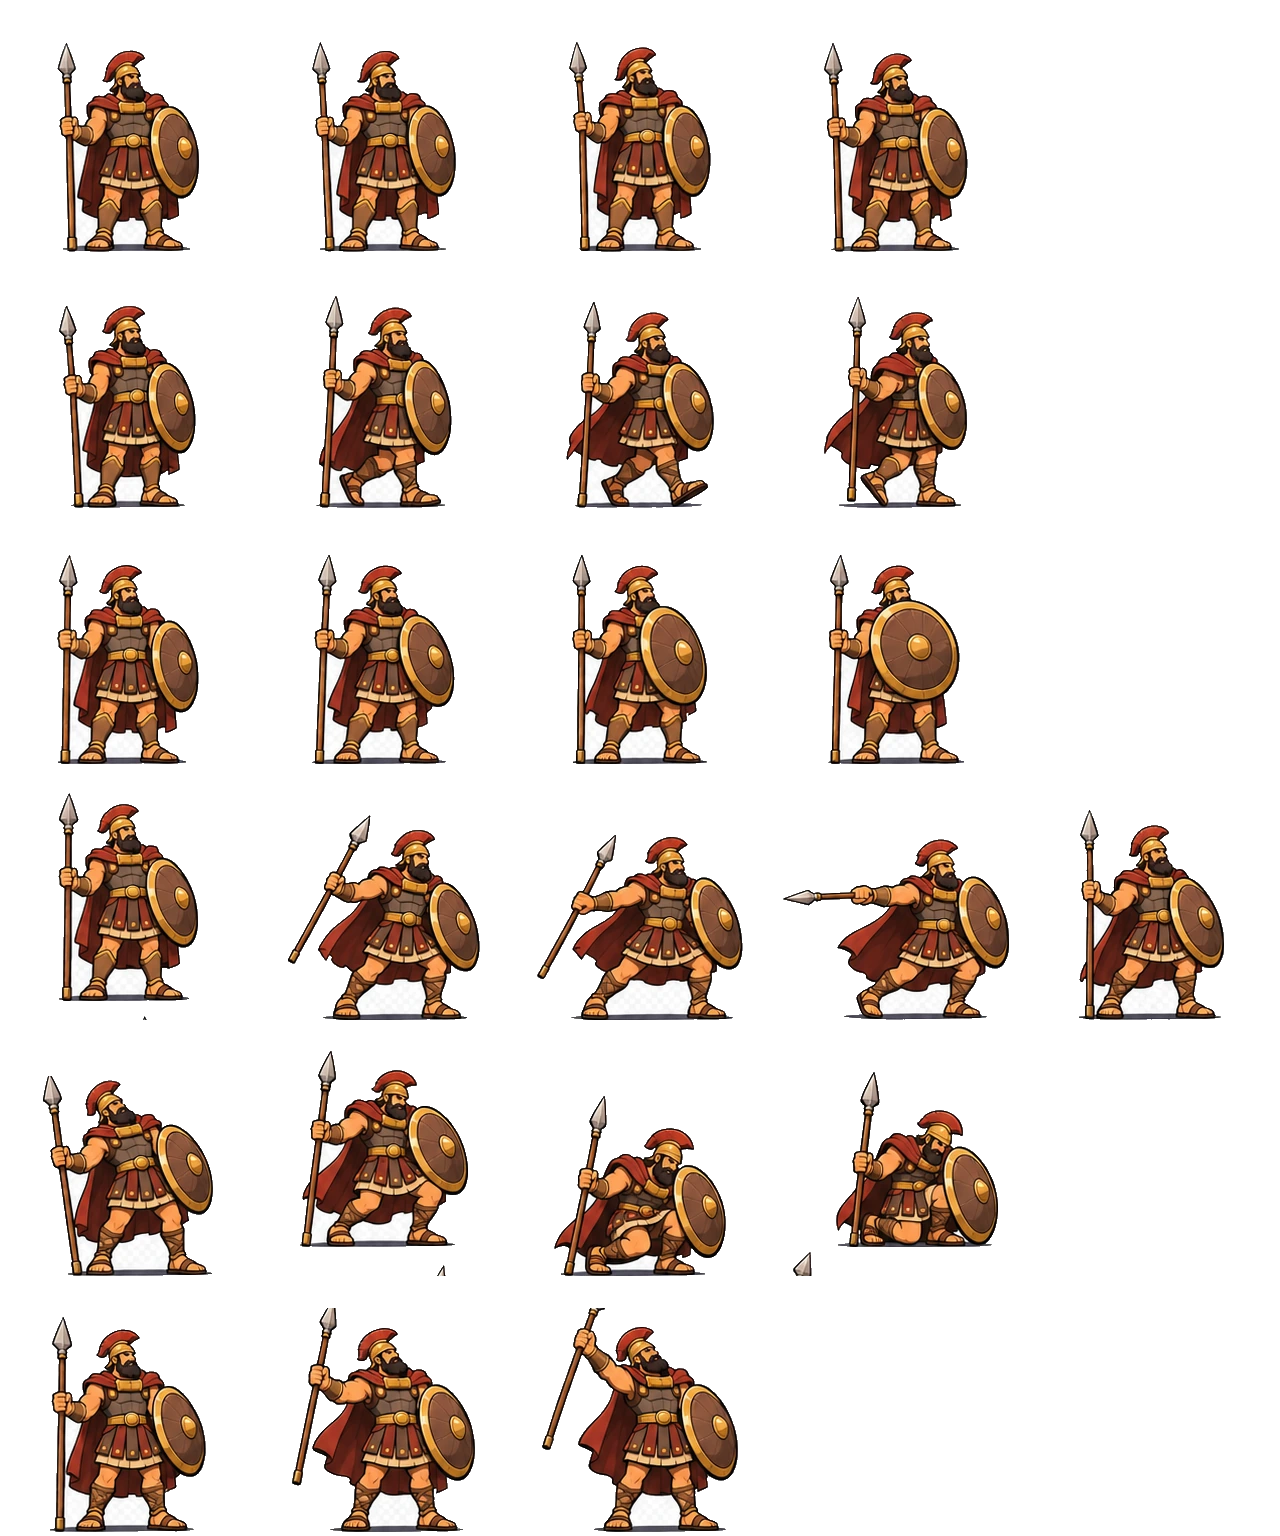
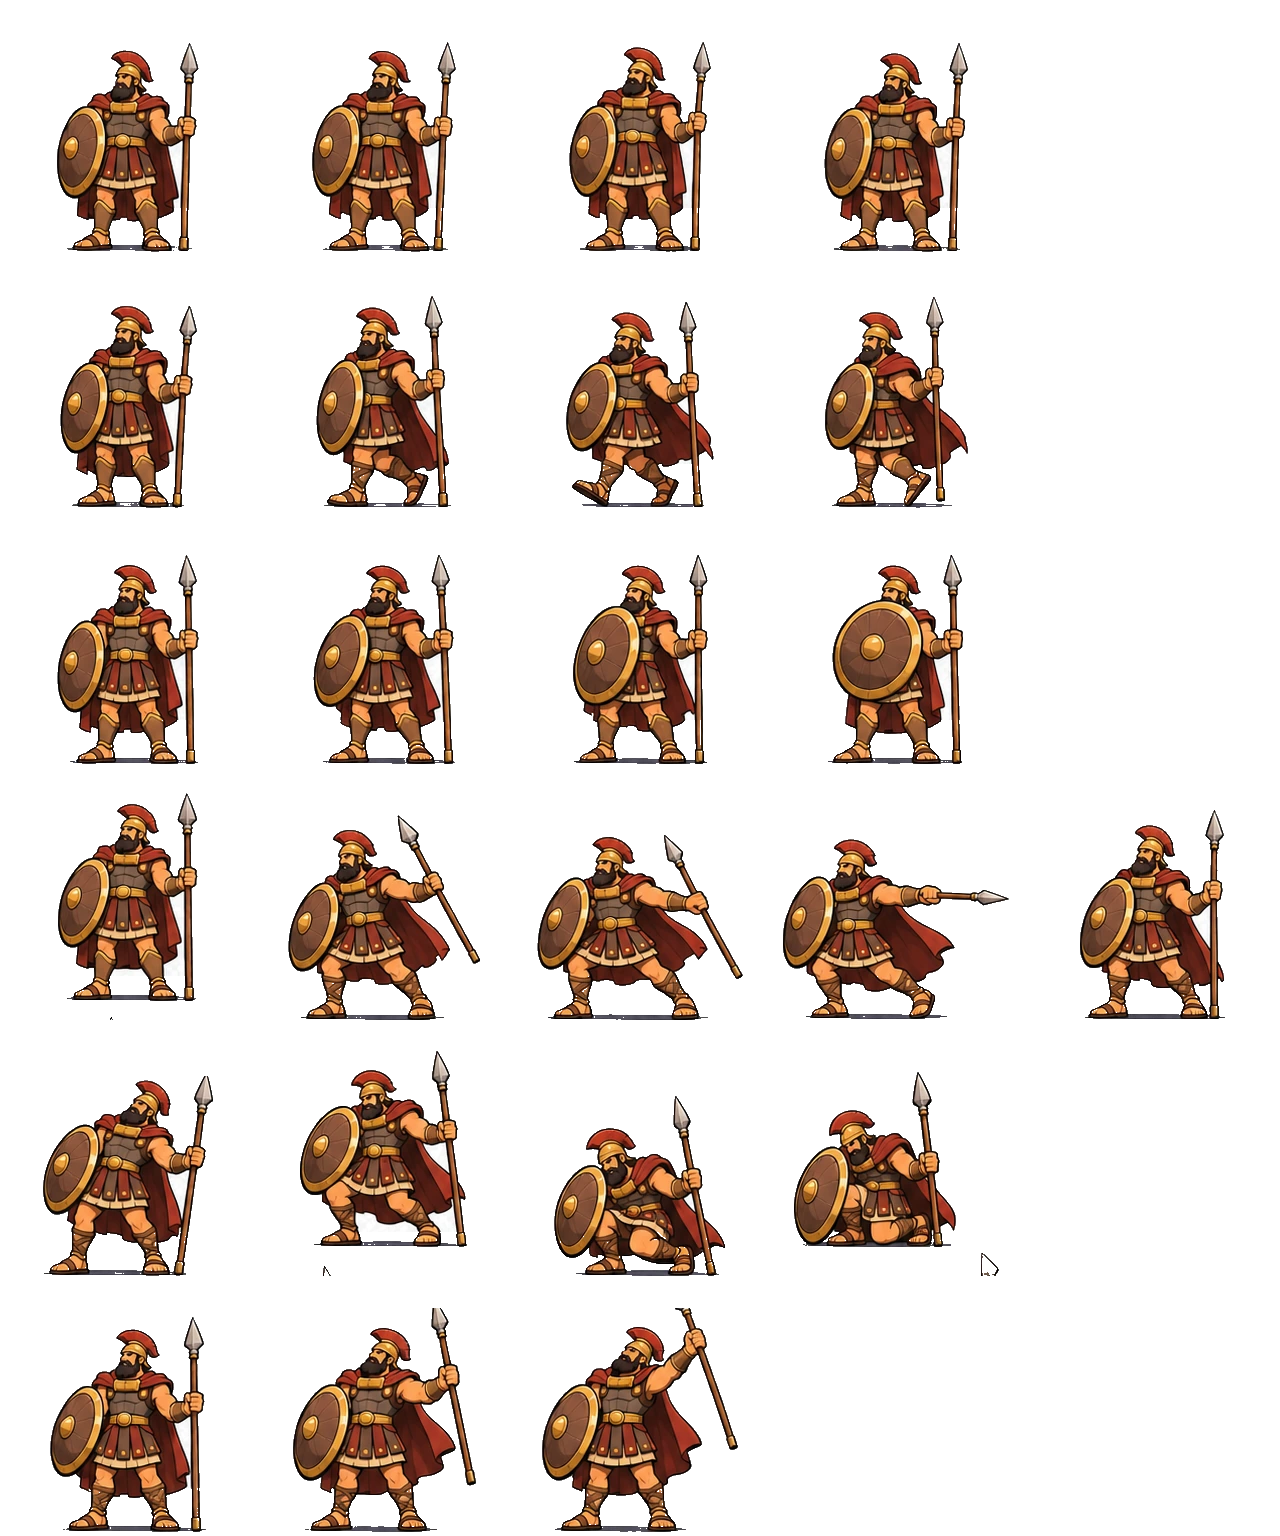
Fix Goliath facing and transparent sprite edges

diff --git a/assets/goliath.js b/assets/goliath.js
@@ -4,7 +4,7 @@
   const rig = new Image();
   rig.src = 'assets/goliath-rig.webp';
   const atlas = new Image();
-  atlas.src = 'assets/goliath-v08/goliath-v08-atlas.webp?v=8';
+  atlas.src = 'assets/goliath-v08/goliath-v08-atlas.webp?v=9';
   const animationFrames = {idle:4,walk:4,shield:4,thrust:5,defeated:4,victory:3};
   const animationRows = {idle:0,walk:1,shield:2,thrust:3,defeated:4,victory:5};
   const ground = 462;
@@ -187,37 +187,6 @@
     g.restore();
   }
 
-  let cleanedAtlas = null;
-  atlas.addEventListener('load', () => {
-    const cell = 256, cols = 5, rows = 6;
-    const work = document.createElement('canvas');
-    work.width = atlas.naturalWidth; work.height = atlas.naturalHeight;
-    const p = work.getContext('2d', {willReadFrequently:true});
-    p.drawImage(atlas, 0, 0);
-    for (let row = 0; row < rows; row++) for (let col = 0; col < cols; col++) {
-      const x0 = col * cell, y0 = row * cell;
-      if (x0 >= work.width || y0 >= work.height) continue;
-      const w = Math.min(cell, work.width - x0), h = Math.min(cell, work.height - y0);
-      const image = p.getImageData(x0, y0, w, h), d = image.data;
-      const seen = new Uint8Array(w * h), queue = new Int32Array(w * h);
-      let head = 0, tail = 0;
-      const pale = i => {
-        const a=d[i*4+3], r=d[i*4], gg=d[i*4+1], b=d[i*4+2];
-        return a > 0 && Math.min(r,gg,b) > 100 && Math.max(r,gg,b)-Math.min(r,gg,b) < 48;
-      };
-      const add = i => { if (!seen[i] && pale(i)) { seen[i]=1; queue[tail++]=i; } };
-      for(let xx=0;xx<w;xx++){add(xx);add((h-1)*w+xx)}
-      for(let yy=1;yy<h-1;yy++){add(yy*w);add(yy*w+w-1)}
-      while(head<tail){
-        const i=queue[head++], xx=i%w, yy=(i/w)|0;
-        if(xx)add(i-1); if(xx<w-1)add(i+1); if(yy)add(i-w); if(yy<h-1)add(i+w);
-      }
-      for(let i=0;i<seen.length;i++){const base=i*4, neutral=Math.max(d[base],d[base+1],d[base+2])-Math.min(d[base],d[base+1],d[base+2]);if(seen[i]||(((i/w)|0)>h-34&&Math.min(d[base],d[base+1],d[base+2])>100&&neutral<60))d[base+3]=0;}
-      p.putImageData(image,x0,y0);
-    }
-    cleanedAtlas=work;
-  });
-
   function draw(g, enemy, fall, blink) {
     const {x, animation = 'idle'} = enemy;
     const state = fall ? 'defeated' : animation;
@@ -230,12 +199,9 @@
     const cellW = 256, cellH = 256;
     ellipse(g, x, ground + 3, 43 + (fall ? 24 : 0), 8, '#573d2e55');
     g.save();
-    if (cleanedAtlas || (atlas.complete && atlas.naturalWidth)) {
-      // Mirror the atlas so Goliath faces David on the left; remove pale edge-connected sheet fragments per frame.
-      const sheet = cleanedAtlas || atlas;
-      g.translate(2*x, 0);
-      g.scale(-1, 1);
-      g.drawImage(sheet, frame * cellW, row * cellH, cellW, cellH,
+    if (atlas.complete && atlas.naturalWidth) {
+      // Atlas frames face left toward David and have clean transparent edges.
+      g.drawImage(atlas, frame * cellW, row * cellH, cellW, cellH,
         x - 128, ground - 256, cellW, cellH);
     } else if (sprite.naturalWidth) {
       g.drawImage(sprite, x - spriteWidth / 2, ground - spriteHeight, spriteWidth, spriteHeight);

diff --git a/index.html b/index.html
@@ -36,7 +36,7 @@ main.immersive{position:fixed;inset:0;width:100%;height:100%;height:100dvh;overf
 #levels button{padding:3px 2px;font-size:16px}
 small{display:block;font-size:10px}
 #action{margin:3px 6px 0 0}
-</style></head><body><main><header><strong>DAVID & GOLIATH</strong><span id="status"></span><button id="menu">Levels</button><button id="retry">Retry</button><button id="fullscreen" type="button" hidden>Full screen</button></header><div id="gameArea"><canvas id="game" width="960" height="540"></canvas><p id="duelCue" hidden aria-live="polite"></p><div id="powerMeter" hidden><span id="powerText"></span><progress id="powerBar" max="100" value="0" aria-label="Throw power"></progress></div><section id="panel" hidden><h2 id="heading"></h2><p id="description"></p><div id="levels"></div><button id="action"></button><button id="sound">Sound: On</button></section></div><p id="hint"></p><p id="rotateHint">Rotate your phone for a bigger playfield.</p><dialog id="screenHelp"><p>On iPhone, tap Share in your browser, then Add to Home Screen. Turn on Open as Web App if shown, tap Add, and launch the game from its icon.</p><form method="dialog"><button>Close</button></form></dialog></main><script src="assets/david-animation.js?v=4"></script><script src="assets/goliath.js?v=9"></script><script>
+</style></head><body><main><header><strong>DAVID & GOLIATH</strong><span id="status"></span><button id="menu">Levels</button><button id="retry">Retry</button><button id="fullscreen" type="button" hidden>Full screen</button></header><div id="gameArea"><canvas id="game" width="960" height="540"></canvas><p id="duelCue" hidden aria-live="polite"></p><div id="powerMeter" hidden><span id="powerText"></span><progress id="powerBar" max="100" value="0" aria-label="Throw power"></progress></div><section id="panel" hidden><h2 id="heading"></h2><p id="description"></p><div id="levels"></div><button id="action"></button><button id="sound">Sound: On</button></section></div><p id="hint"></p><p id="rotateHint">Rotate your phone for a bigger playfield.</p><dialog id="screenHelp"><p>On iPhone, tap Share in your browser, then Add to Home Screen. Turn on Open as Web App if shown, tap Add, and launch the game from its icon.</p><form method="dialog"><button>Close</button></form></dialog></main><script src="assets/david-animation.js?v=4"></script><script src="assets/goliath.js?v=10"></script><script>
 const canvas=document.querySelector('#game'),g=canvas.getContext('2d'),status=document.querySelector('#status'),panel=document.querySelector('#panel'),heading=document.querySelector('#heading'),description=document.querySelector('#description'),levelButtons=document.querySelector('#levels'),action=document.querySelector('#action'),soundButton=document.querySelector('#sound'),hint=document.querySelector('#hint');
 const width = canvas.width;
 const height = canvas.height;

diff --git a/duel-prototype.html b/duel-prototype.html
@@ -43,7 +43,7 @@ button:active{transform:translateY(2px);box-shadow:0 1px 0 #9d7040}
 <div id="rotate">Turn your phone sideways<span>This duel is designed for a wide screen.</span></div>
 <div id="overlay"><div class="card"><h1 id="title">The Valley of Elah</h1><p id="copy">Goliath is advancing. Read his spear wind-up, dodge the thrust, then strike the opening while his shield is down.</p><p class="sub">Move around the field. A well-timed dodge avoids the spear. You have five stones and three chances.</p><button id="start">Enter the duel</button></div></div>
 <script src="assets/david-animation.js?v=4"></script>
-<script src="assets/goliath.js?v=9"></script>
+<script src="assets/goliath.js?v=10"></script>
 <script>
 (()=>{
 'use strict';
